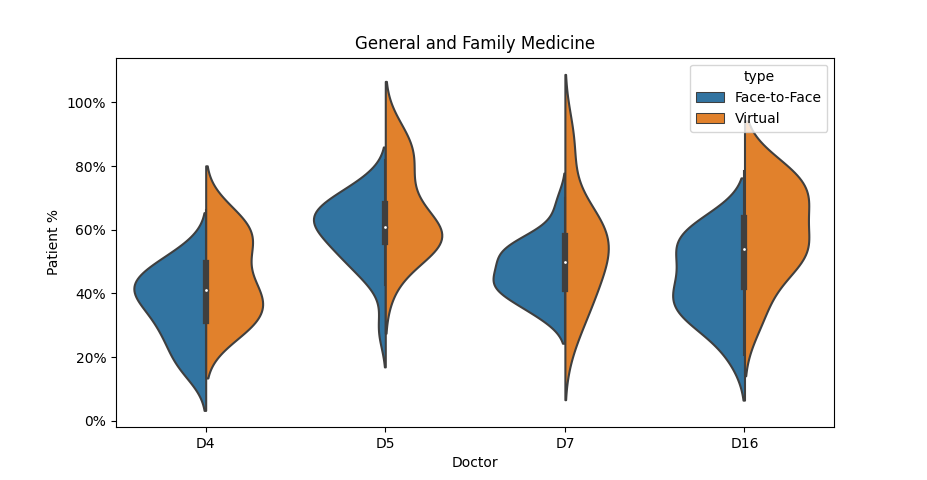
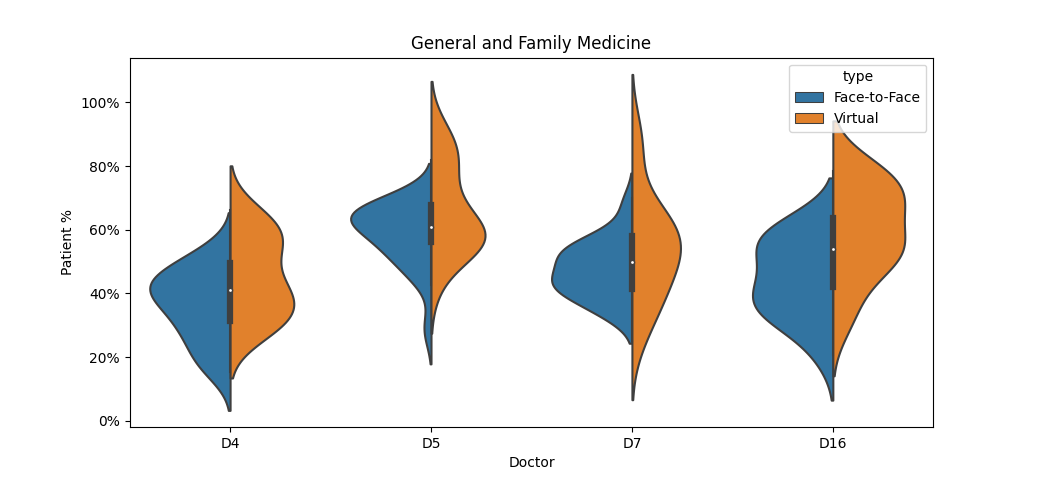
Comment stats_test_spec

diff --git a/results/stats_test_Spec.py b/results/stats_test_Spec.py
@@ -8,6 +8,11 @@ import pandas as pd
 
 
 def normal_test(data):
+    """Perform the shapiro test to check normality
+
+    Args:
+        data (array_like): Distribution to check normality
+    """
     stat, p = shapiro(data)
     print('Statistics=%.3f, p=%.3f' % (stat, p))
 
@@ -20,6 +25,12 @@ def normal_test(data):
 
 
 def mann_whit_test(p_data, v_data):
+    """Perform the mann_whitney test 
+
+    Args:
+        p_data (array_like): Face-to-face Distribution
+        v_data (array_like): Virtual Distribution
+    """
     print("Presential Median: " + str(p_data.median()))
     print("Virtual Median: " + str(v_data.median()))
 
@@ -34,6 +45,13 @@ def mann_whit_test(p_data, v_data):
 
 
 def get_percentages(d):
+    """Receive output of classification and parse Patient%
+
+    Args:
+        d (Dataframe) : Output of final_classify.py
+    Returns:
+        (array_like, array_like): Both face-to-face and presential distributions
+    """
     presential_stats = d + '/Presential/proc_res/Totals/Stats.csv'
     virtual_stats = d + '/Virtual/proc_res/Totals/Stats.csv'
 
@@ -75,7 +93,7 @@ def main(args):
     mann_whit_test(full_p_data, full_v_data)
 
     ax = sns.violinplot(x='Doctor', y='Patient_Percentage',
-                        hue='type', data=df, split=True)
+                        hue='type', data=df, split=True, inner='stick')
 
     plt.title(args.spec)
     if args.spec == 'MedGeral':
